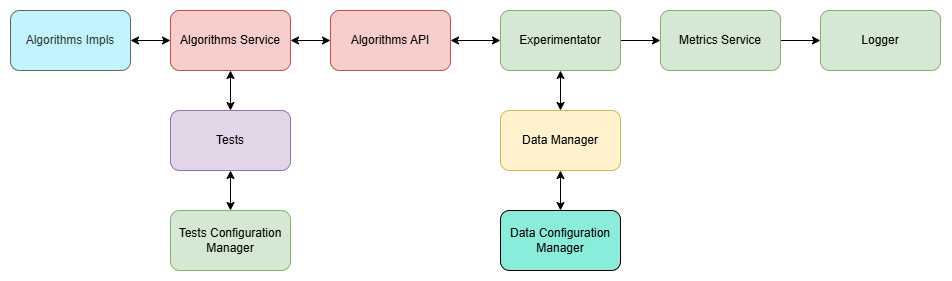
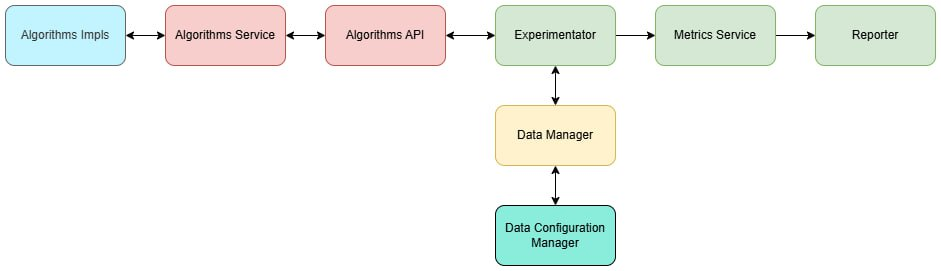
Add algorithm links and chenge Logger to Reporter

diff --git a/docs/algorithms-details.md b/docs/algorithms-details.md
@@ -7,6 +7,9 @@
 - **Приближённый или точный**: Точный.  
 - **Описание особенностей**:  
   Используются все возможные подмножества предметов, что можно закодировать битовыми масками длины `n`. Для каждой маски проверяется, можно ли уместить выбранные предметы в рюкзак, и вычисляется их стоимость. Подходит для небольших значений `n` (до 20-25).
+- **Relevant Links**:
+  - [GeeksForGeeks: Bitmasking approach to 0/1 Knapsack](https://www.geeksforgeeks.org/bitmasking-dynamic-programming-set-2-knapsack/)
+  - [CP Algorithms: Bitmask operations](https://cp-algorithms.com/algebra/all-submasks.html)
 
 ---
 
@@ -17,6 +20,9 @@
 - **Приближённый или точный**: Точный.  
 - **Описание особенностей**:  
   Рекурсивно рассматриваются два случая для каждого предмета: включить его в рюкзак или пропустить.
+- **Relevant Links**:
+  - [GeeksForGeeks: Recursive approach for Knapsack](https://www.geeksforgeeks.org/0-1-knapsack-problem-recursive-implementation/)
+  - [Stanford CS: Recursive Backtracking](https://web.stanford.edu/class/cs106b/lectures/05-backtracking/)
 
 ---
 
@@ -27,6 +33,9 @@
 - **Приближённый или точный**: Точный.  
 - **Описание особенностей**:  
   Делит набор предметов на две половины. Для каждой половины генерируются все подмножества с их весом и стоимостью. Затем результаты двух половин объединяются с помощью двоичного поиска. Это существенно ускоряет решение для `n` порядка 40.
+- **Relevant Links**:
+  - [CP Algorithms: Meet in the middle technique](https://cp-algorithms.com/others/meet-in-the-middle.html)
+  - [TopCoder: Meet in the Middle](https://www.topcoder.com/thrive/articles/Meet%20in%20the%20Middle)
 
 ---
 
@@ -37,6 +46,9 @@
 - **Приближённый или точный**: Точный.  
 - **Описание особенностей**:  
   Создаётся таблица, где `dp[i][w]` представляет максимальную стоимость при использовании первых `i` предметов и весе `w`. На каждой итерации рассматриваются два случая: включить или пропустить текущий предмет. Хорошо работает для небольших `W`.
+- **Relevant Links**:
+  - [GeeksForGeeks: DP approach to Knapsack](https://www.geeksforgeeks.org/0-1-knapsack-problem-dp-10/)
+  - [MIT OpenCourseWare: Dynamic Programming](https://ocw.mit.edu/courses/6-006-introduction-to-algorithms-fall-2011/resources/lecture-19-dynamic-programming-i-fibonacci-shortest-paths/)
 
 ---
 
@@ -47,6 +59,9 @@
 - **Приближённый или точный**: Точный.  
 - **Описание особенностей**:  
   Вместо того чтобы вычислять все состояния, вычисляются только те, которые возможны с учётом ограничений (веса). Это снижает избыточные вычисления и работает быстрее для некоторых задач.
+- **Relevant Links**:
+  - [Algorithmica: Lazy Dynamic Programming](https://algorithmica.org/en/lazy-segment-tree)
+  - [CodeForces: Lazy Dynamic Programming Blog](https://codeforces.com/blog/entry/78733)
 
 ---
 
@@ -57,6 +72,9 @@
 - **Приближённый или точный**: Приближённый (для дробного рюкзака точный).  
 - **Описание особенностей**:  
   Предметы сортируются по убыванию отношения ценности к весу `v[i]/w[i]`. Включаются в рюкзак до исчерпания веса. Эффективен для дробного рюкзака, но для 0-1 версии может быть далёким от оптимального.
+- **Relevant Links**:
+  - [GeeksForGeeks: Greedy approach for Fractional Knapsack](https://www.geeksforgeeks.org/fractional-knapsack-problem/)
+  - [Stanford CS: Greedy Algorithms](https://web.stanford.edu/class/archive/cs/cs161/cs161.1138/lectures/13/Small13.pdf)
 
 ---
 
@@ -67,6 +85,9 @@
 - **Приближённый или точный**: Приближённый (с гарантией близости к оптимальному).  
 - **Описание особенностей**:  
   Снижает точность значений предметов (стоимостей), округляя их до меньшего числа разрядов с использованием коэффициента `ε`. Использует динамическое программирование для решения задачи с уменьшенной точностью. Позволяет находить решение с точностью до `(1 + ε)`.
+- **Relevant Links**:
+  - [CMU: FPTAS for Knapsack](https://www.cs.cmu.edu/~ckingsf/bioinfo-lectures/fptas.pdf)
+  - [UC Davis: Approximation Algorithms](https://web.cs.ucdavis.edu/~bai/ECS222/approximation.pdf)
 
 ---
 
@@ -77,4 +98,7 @@
 - **Приближённый или точный**: Точный.  
 - **Описание особенностей**:  
   Применяется рекурсивное дерево решений с отсечением нерелевантных ветвей, используя эвристики (например, оценку максимальной стоимости при текущем весе). Позволяет существенно ускорить решение за счёт отсечения очевидно неоптимальных решений.
+- **Relevant Links**:
+  - [GeeksForGeeks: Branch and Bound](https://www.geeksforgeeks.org/branch-and-bound-algorithm/)
+  - [Cornell University: Branch and Bound Methods](https://people.orie.cornell.edu/dpw/orie6300/Lectures/lec7.pdf)
 

diff --git a/docs/architecture/architecture-components.md b/docs/architecture/architecture-components.md
@@ -47,7 +47,7 @@
 2. Хранение метрик и предоставление для анализа
 3. Поддержка вывода метрик в файл JSON.
 
-### Logger
+### Reporter
 1. Логирование событий и выполнения алгоритмов.
 2. Поддержка уровней логирования (Info, Debug, Error).
 3. Интеграция с другими компонентами.
